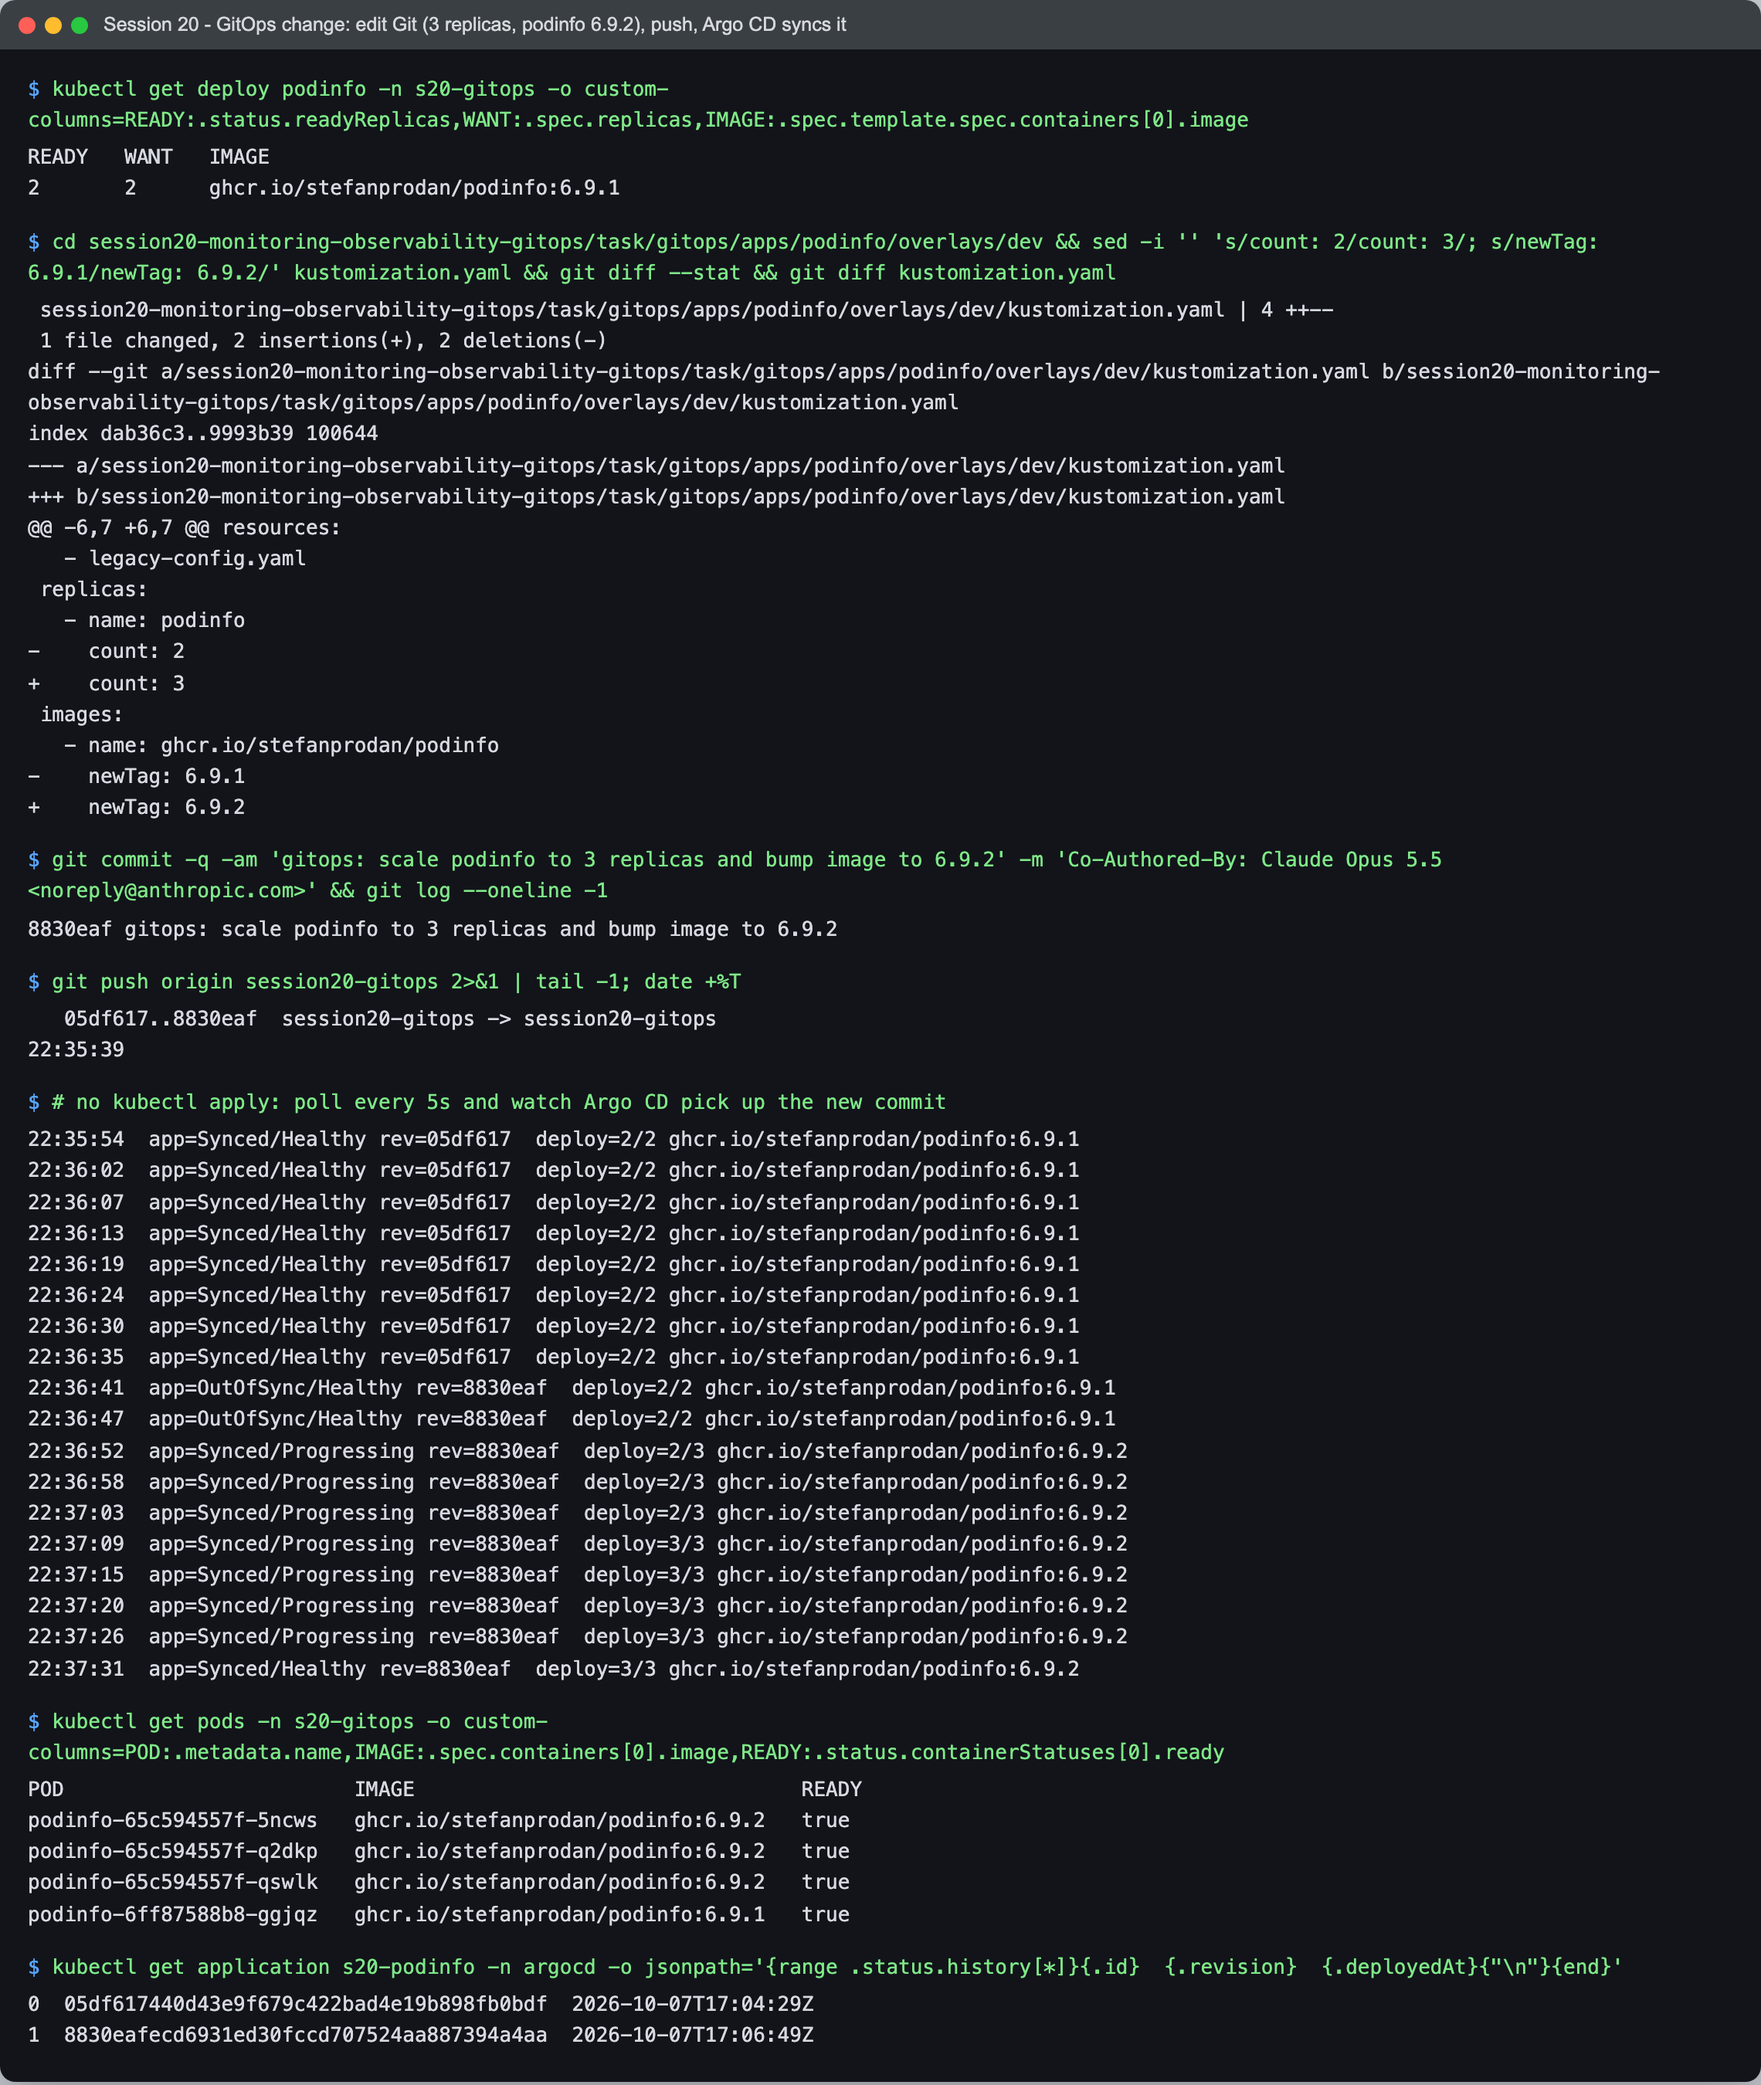
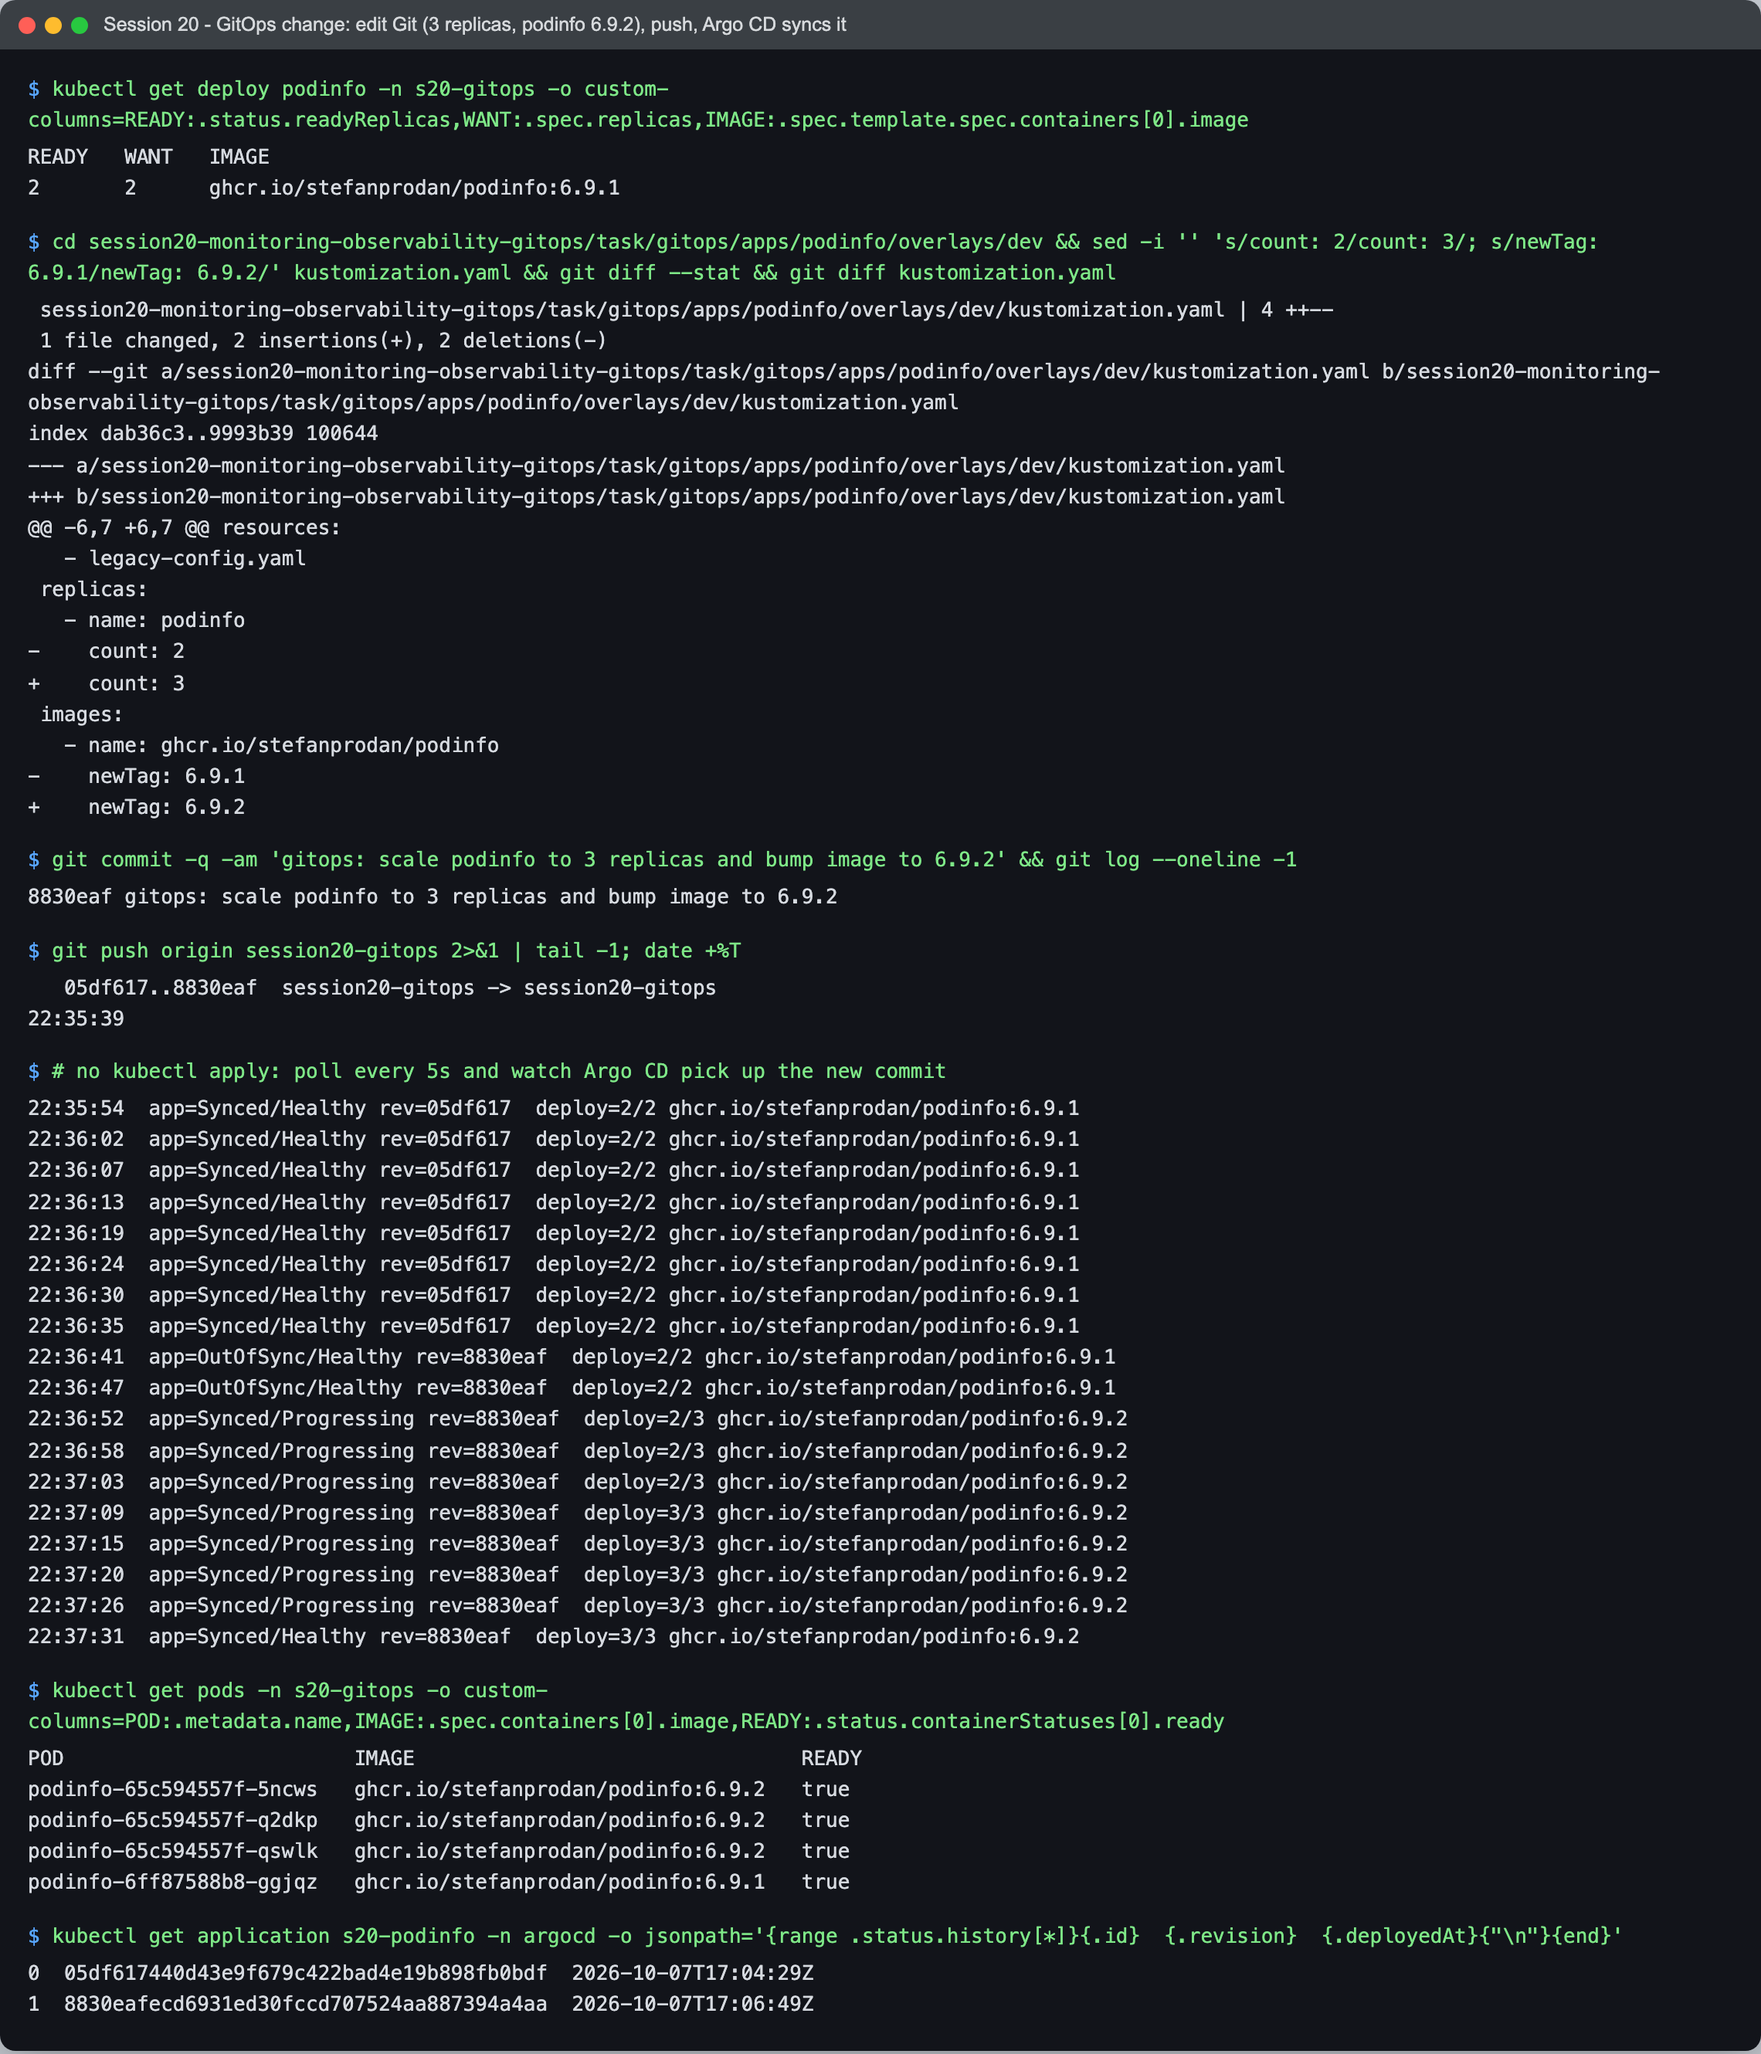
Session 20: tidy two captured git commands in the GitOps write-up

diff --git a/session20-monitoring-observability-gitops/task/README.md b/session20-monitoring-observability-gitops/task/README.md
@@ -526,7 +526,7 @@ index dab36c3..9993b39 100644
 -    newTag: 6.9.1
 +    newTag: 6.9.2
 
-$ git commit -q -am 'gitops: scale podinfo to 3 replicas and bump image to 6.9.2' -m 'Co-Authored-By: Claude Opus 5.5 <noreply@anthropic.com>' && git log --oneline -1
+$ git commit -q -am 'gitops: scale podinfo to 3 replicas and bump image to 6.9.2' && git log --oneline -1
 8830eaf gitops: scale podinfo to 3 replicas and bump image to 6.9.2
 
 $ git push origin session20-gitops 2>&1 | tail -1; date +%T
@@ -643,7 +643,7 @@ index 9993b39..38c1131 100644
    - name: podinfo
      count: 3
 
-$ git commit -q -am 'gitops: remove legacy-config (Argo CD should prune it)' -m 'Co-Authored-By: Claude Opus 5.5 <noreply@anthropic.com>' && git log --oneline -1 && git push origin session20-gitops 2>&1 | tail -1; date +%T
+$ git commit -q -am 'gitops: remove legacy-config (Argo CD should prune it)' && git log --oneline -1 && git push origin session20-gitops 2>&1 | tail -1; date +%T
 09a0005 gitops: remove legacy-config (Argo CD should prune it)
    8830eaf..09a0005  session20-gitops -> session20-gitops
 22:38:25
